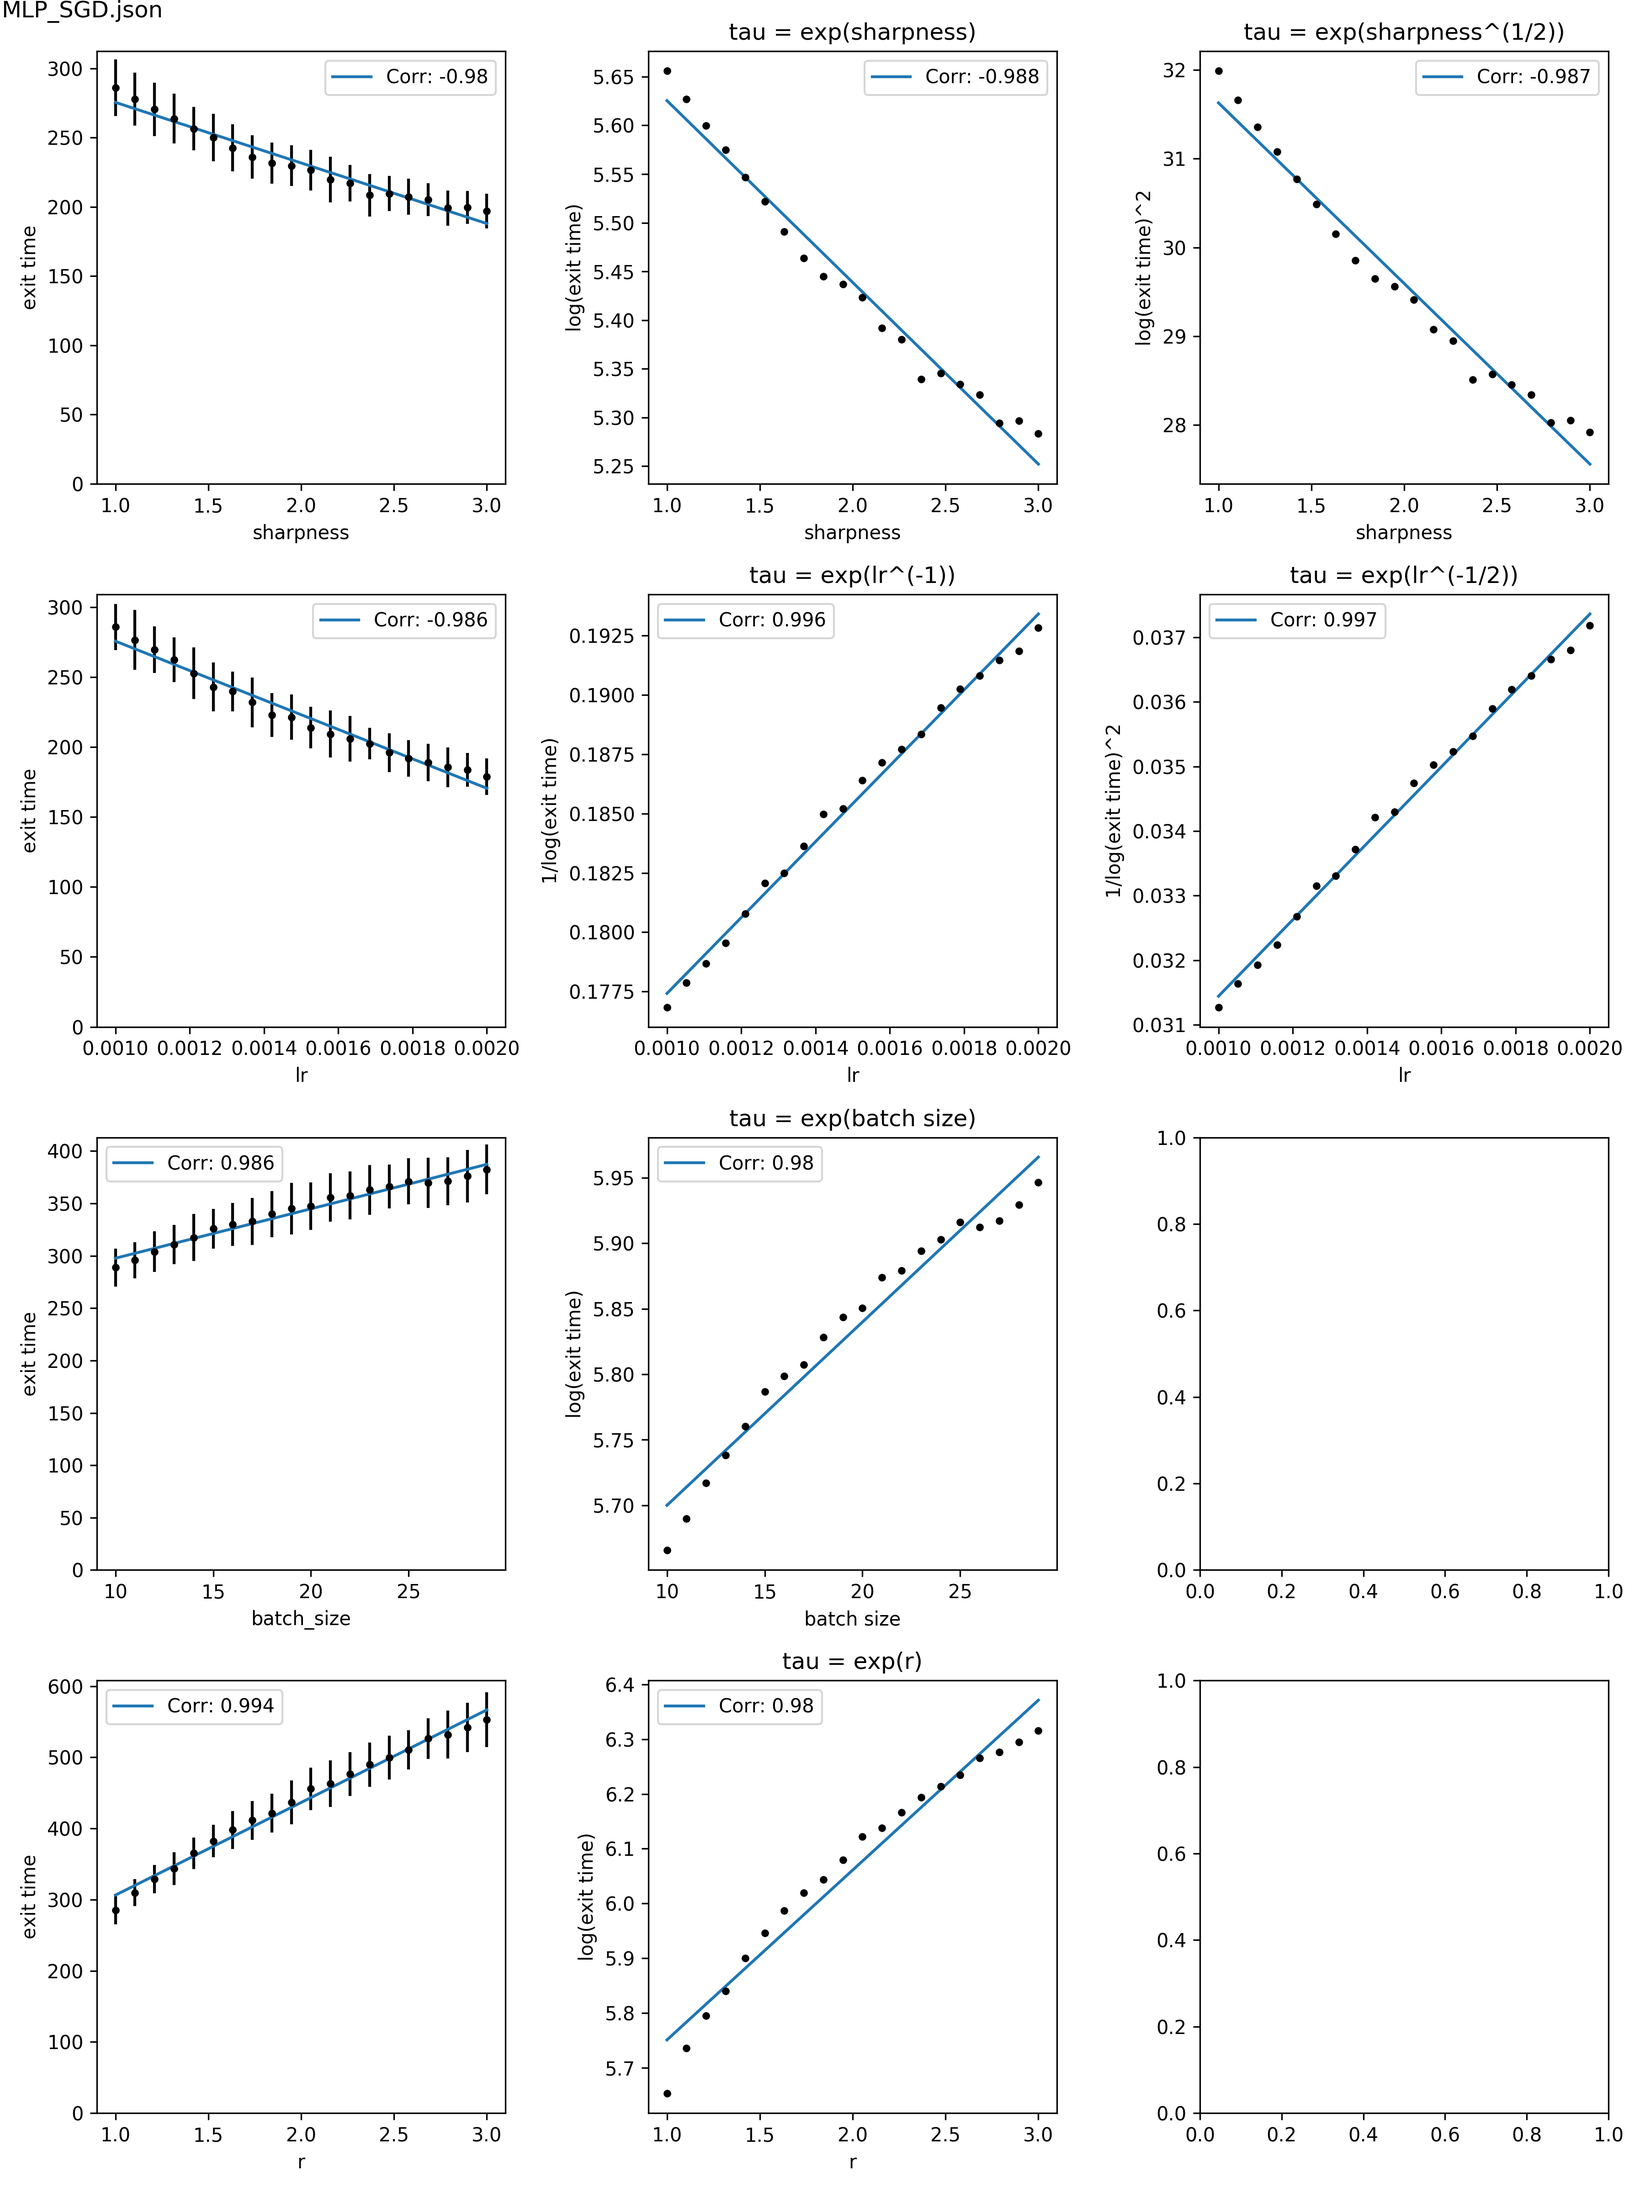
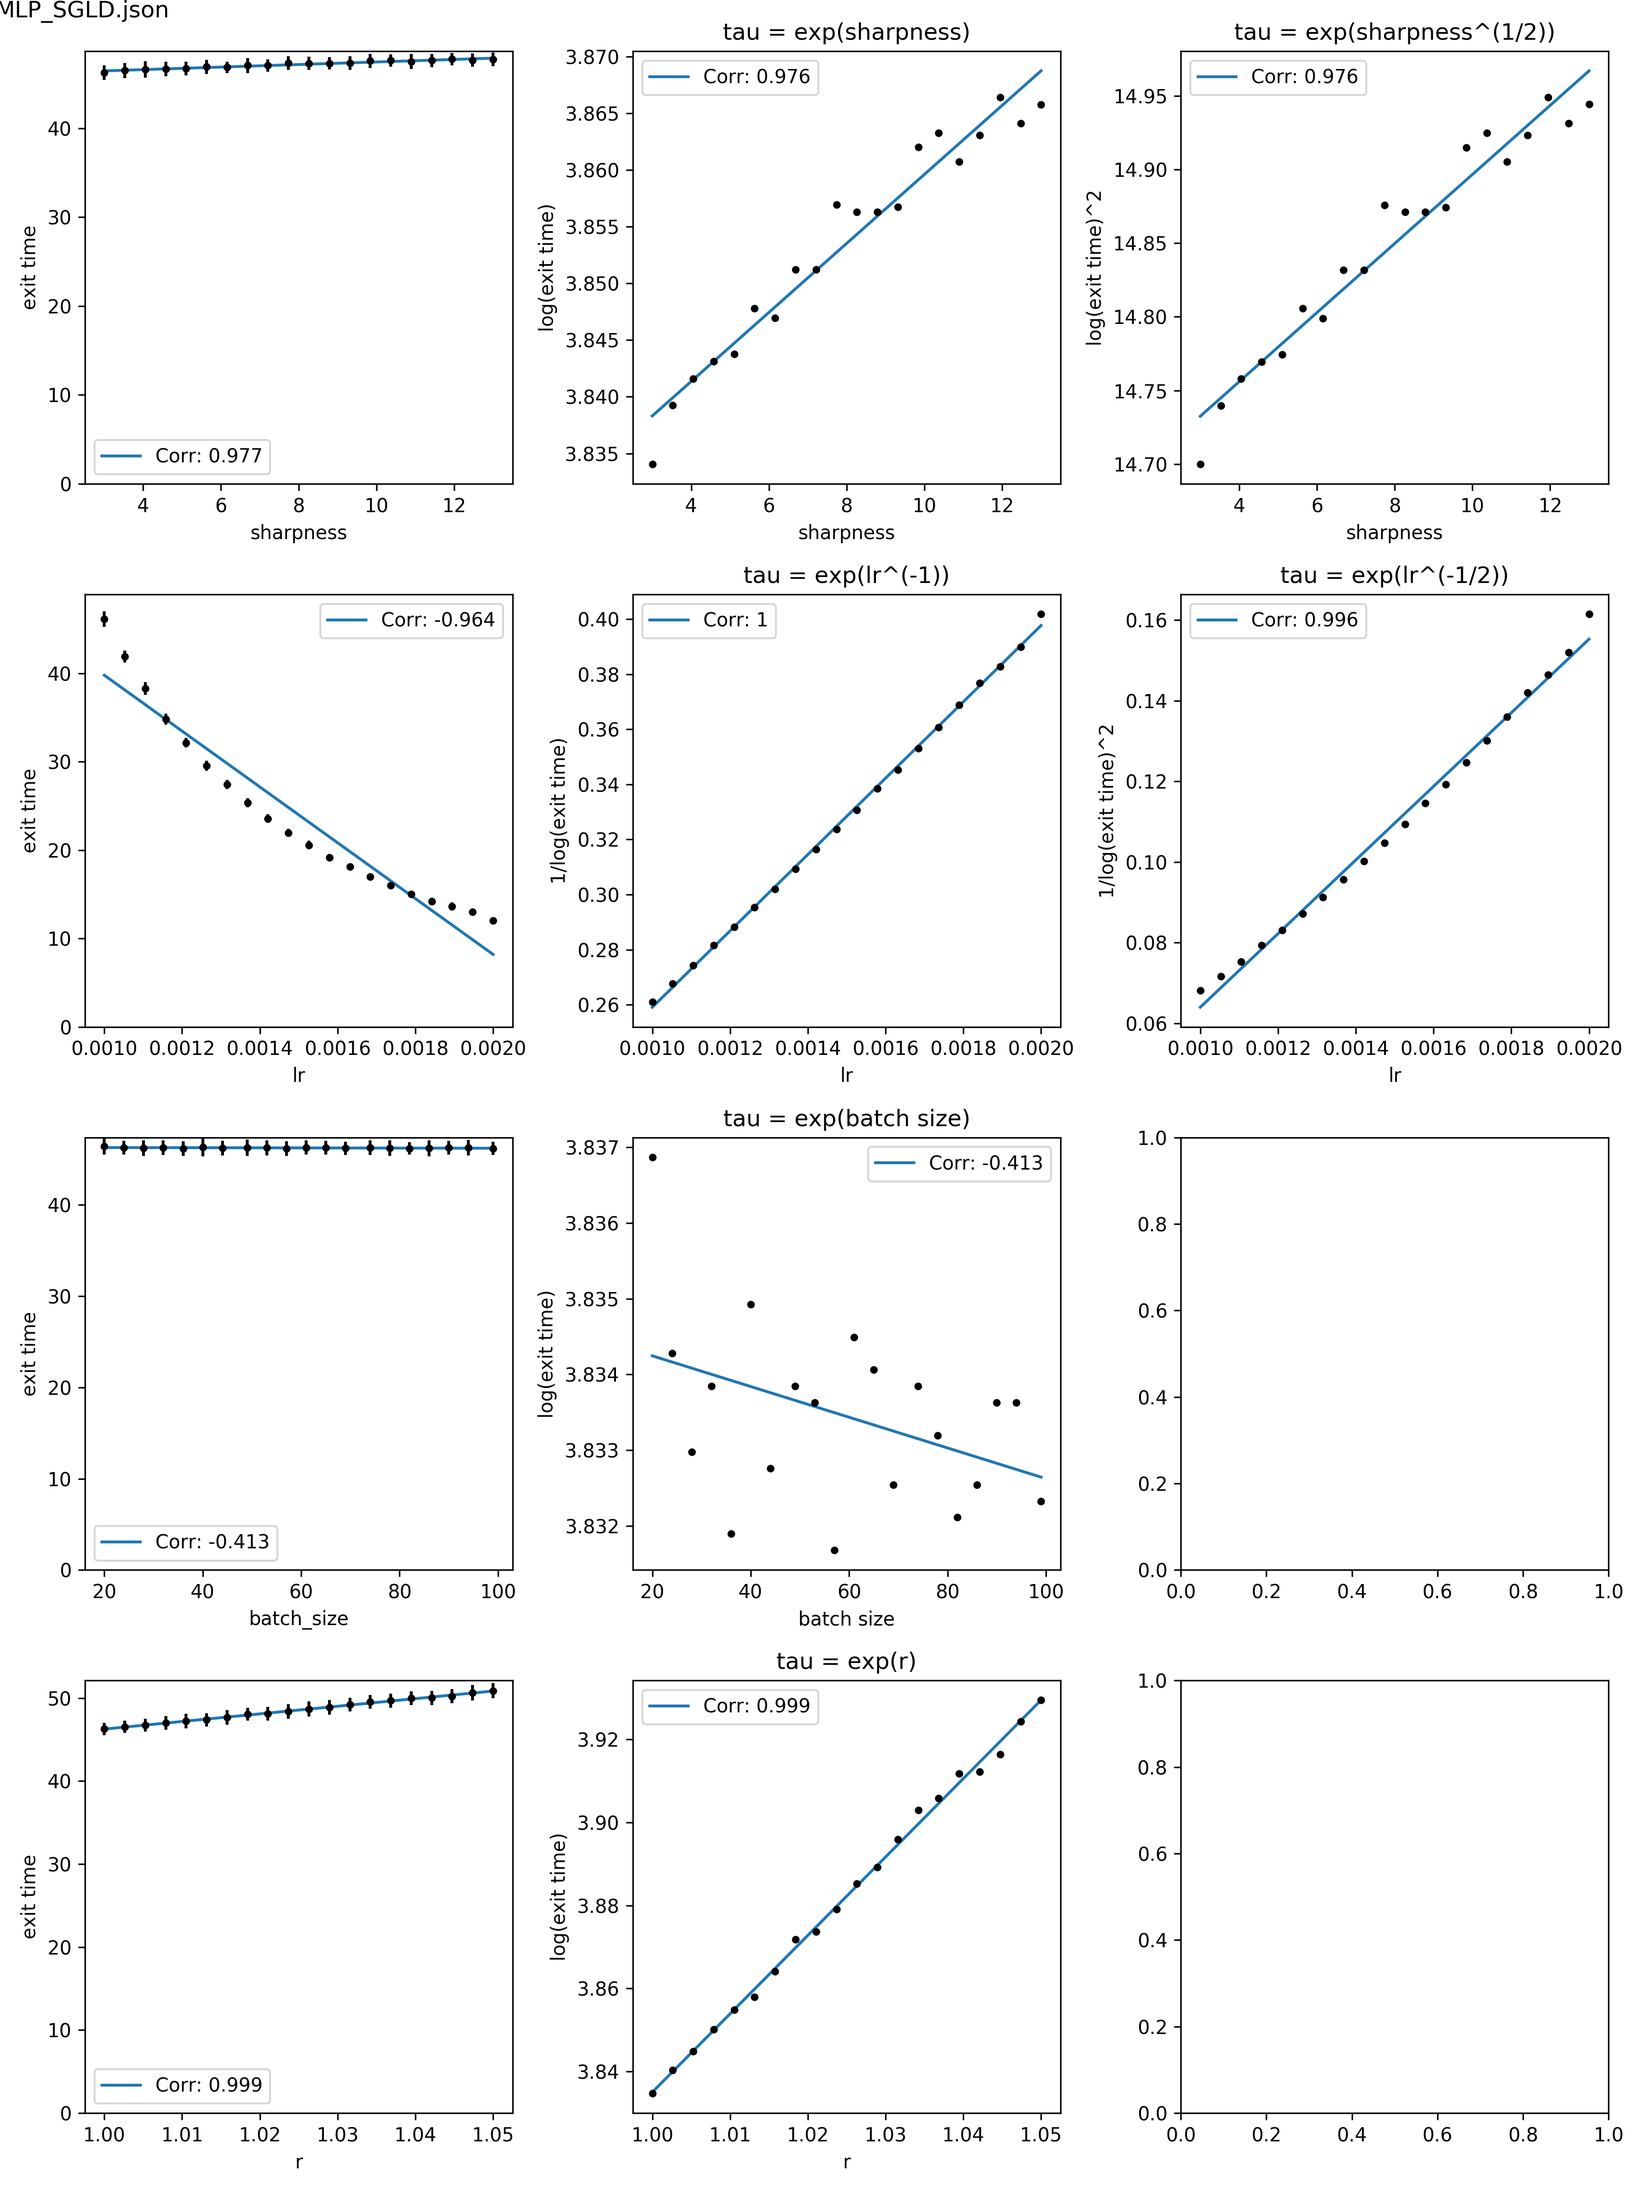
update

diff --git a/exit_time.py b/exit_time.py
@@ -318,7 +318,7 @@ import optuna
 from mpi4py import MPI
 import json
 def main():
-    config_fn = 'MLP_SGD.json' 
+    config_fn = 'MLP_SGLD.json' 
     with open(config_fn) as json_file:
         config = json.load(json_file)
     #
